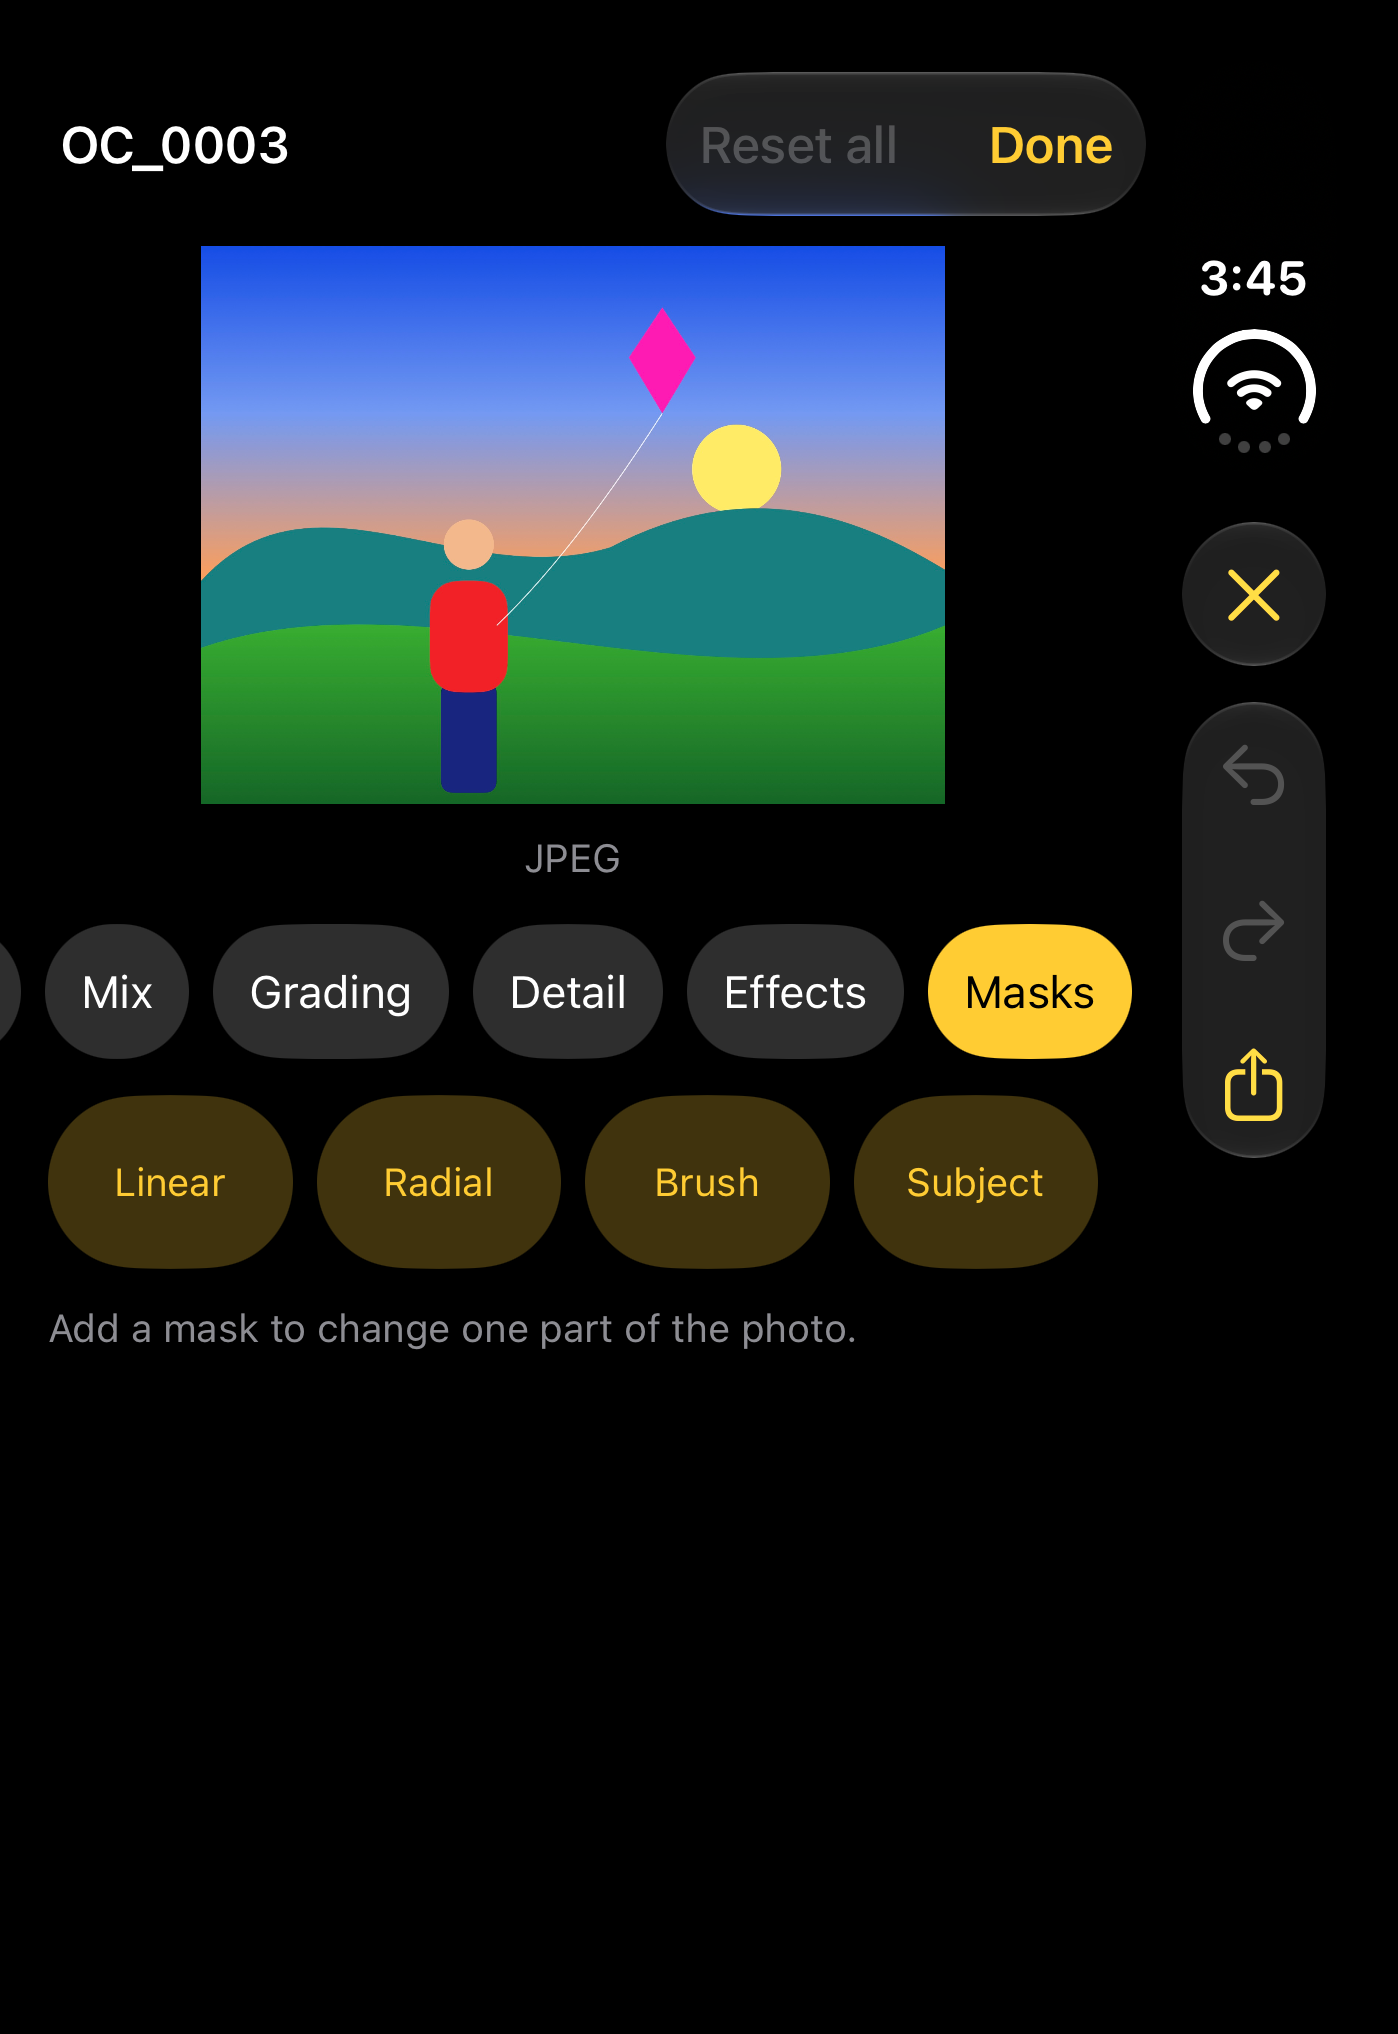
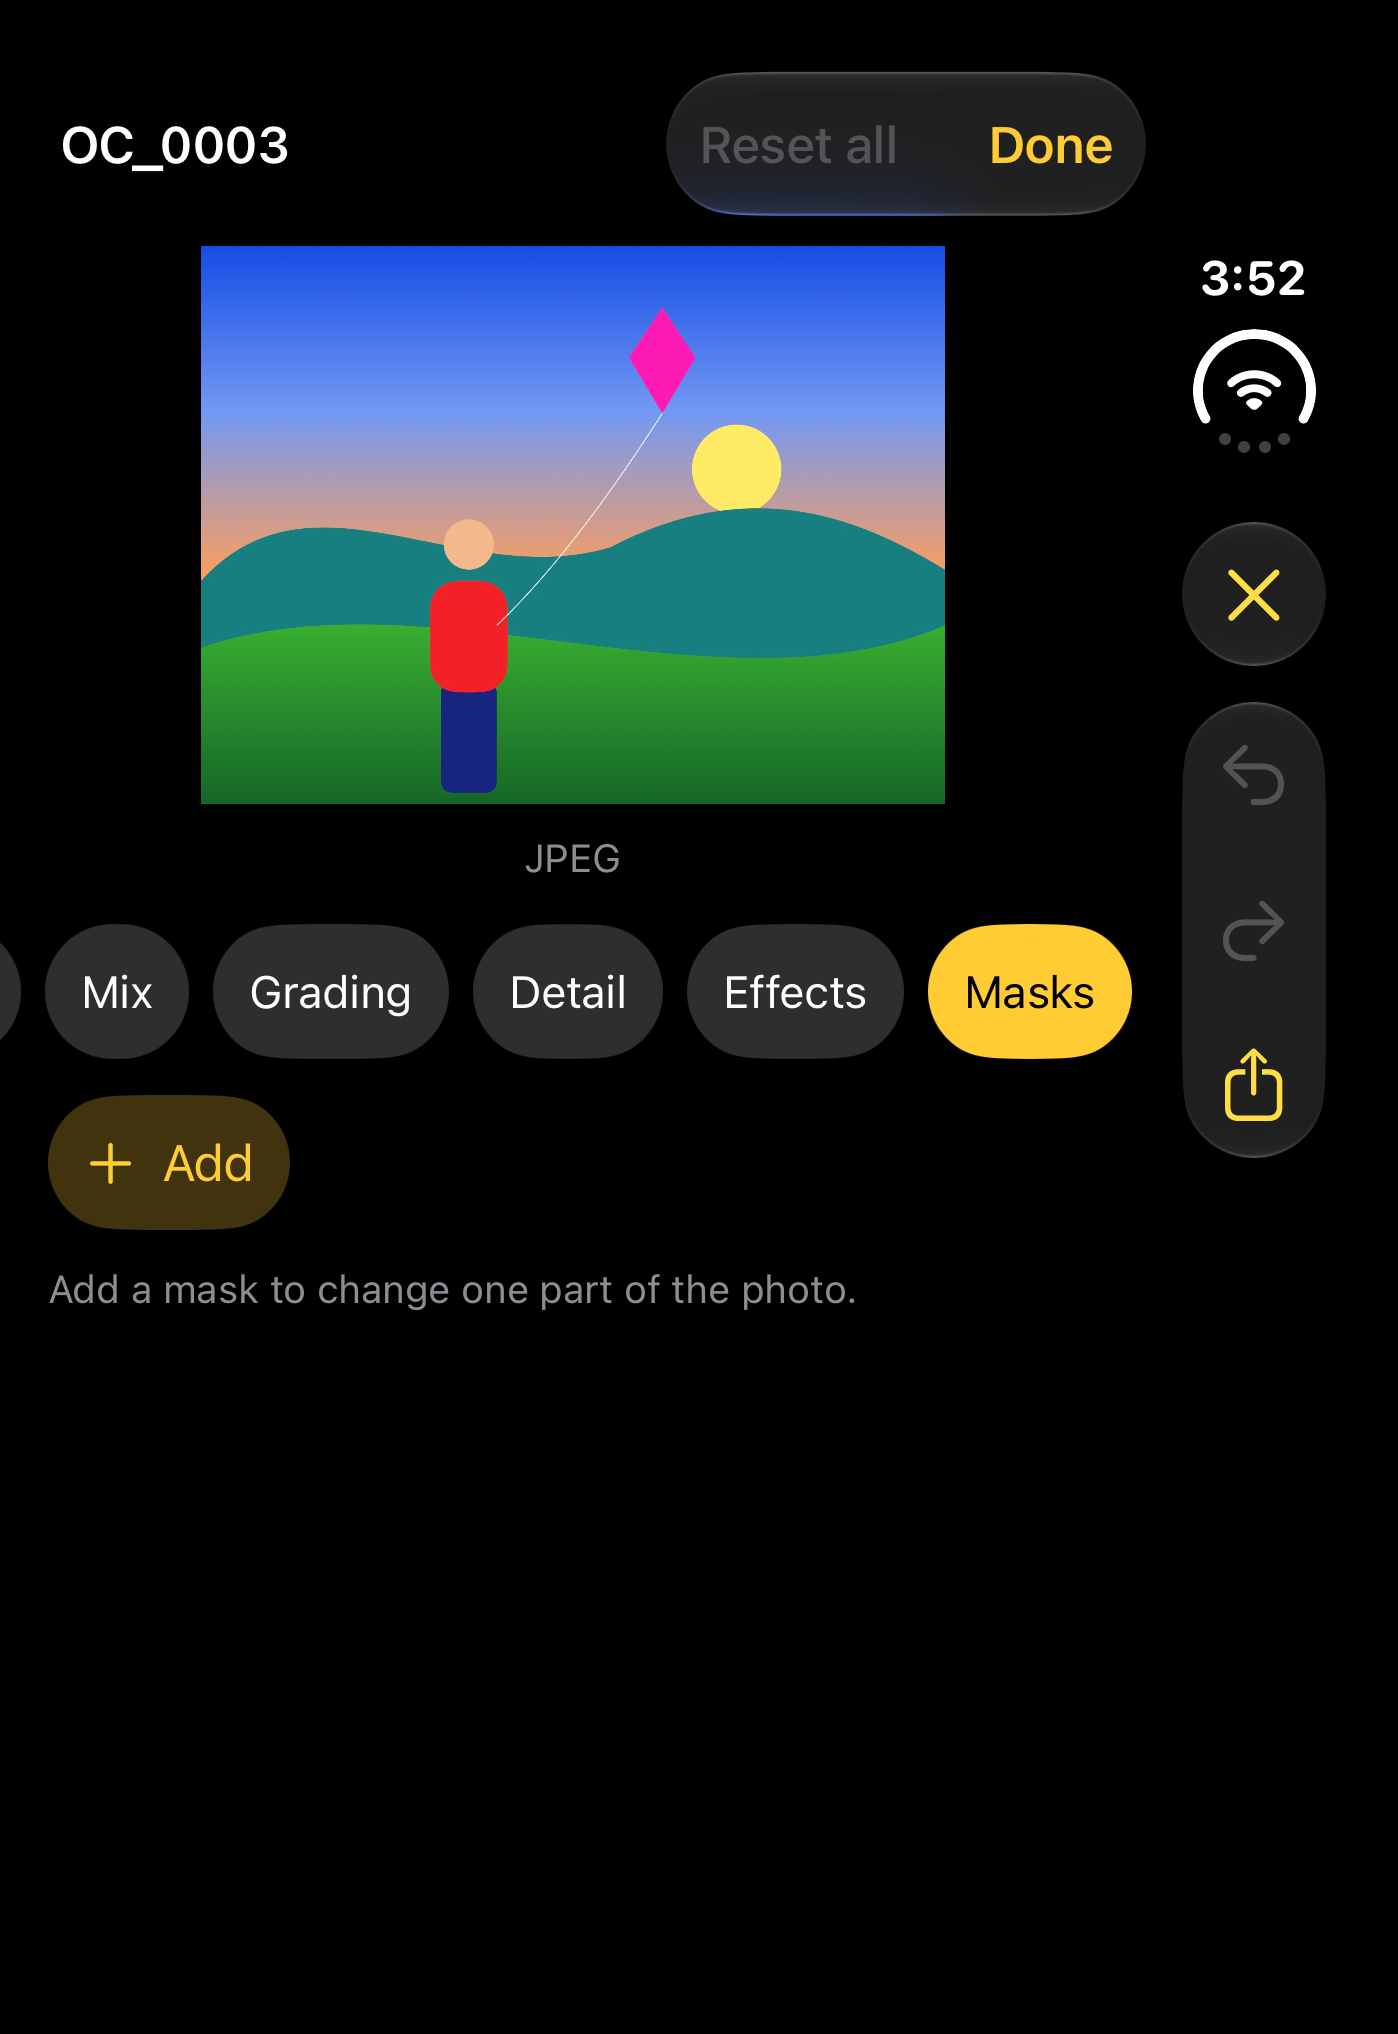
fix: fit the Masks panel's controls into one row and mark Delete as destructive

Changed region(s): [[0.0308, 0.5265, 0.7997, 0.6814], [0.892, 0.1239, 0.9535, 0.1549]]

diff --git a/OpenCam/UI/Editor/MasksPanel.swift b/OpenCam/UI/Editor/MasksPanel.swift
@@ -1,6 +1,6 @@
 import SwiftUI
 
-/// The Masks group: four buttons that add a mask, then the chosen mask's row, Invert and Delete, then its seven sliders.
+/// The Masks group: one row with the Add menu and the masks, then Invert and Delete, then its seven sliders.
 struct MasksPanel: View {
     @Bindable var model: EditorModel
 
@@ -9,14 +9,13 @@ struct MasksPanel: View {
     var body: some View {
         ScrollView {
             VStack(spacing: Self.rowGap) {
-                addButtons
+                topRow
                 if model.masks.isEmpty {
                     Text("Add a mask to change one part of the photo.")
                         .font(.footnote)
                         .foregroundStyle(.secondary)
                         .frame(maxWidth: .infinity, alignment: .leading)
                 } else {
-                    maskRow
                     actions
                     ForEach(LocalMask.keys, id: \.self) { key in
                         AdjustmentSlider(key: key, value: sliderBinding(key)) { model.updateSelectedMask { $0.adjustments[key] = 0 } }
@@ -30,22 +29,31 @@ struct MasksPanel: View {
         .scrollBounceBehavior(.basedOnSize)
     }
 
-    private var addButtons: some View {
+    /// The Add menu and, once a mask exists, the masks by position in the rest of the row.
+    private var topRow: some View {
         HStack(spacing: Theme.Space.s) {
-            ForEach(MaskKind.allCases, id: \.self) { kind in
-                Button { model.addMask(kind) } label: {
-                    Text(kind.title)
-                        .font(.footnote)
-                        .lineLimit(1)
-                        .minimumScaleFactor(0.6)
-                        .frame(maxWidth: .infinity, minHeight: Theme.Size.minTarget)
-                }
-                .buttonStyle(.bordered)
-            }
+            addMenu
+            if !model.masks.isEmpty { maskRow }
+            else { Spacer(minLength: 0) }
         }
-        .accessibilityElement(children: .contain)
-        .accessibilityLabel("Add a mask")
     }
+
+    private var addMenu: some View {
+        Menu {
+            ForEach(MaskKind.allCases, id: \.self) { kind in
+                Button(kind.title) { model.addMask(kind) }
+            }
+        } label: {
+            Label("Add", systemImage: "plus")
+                .frame(minHeight: Theme.Size.minTarget - Self.borderedInset)
+        }
+        .buttonStyle(.bordered)
+        .fixedSize()
+        .accessibilityLabel("Add mask")
+    }
+
+    /// The bordered styles add about 6.5 pt above and below the label (measured, as in `ScrollingPicker`).
+    private static let borderedInset: CGFloat = 13
 
     /// The masks by position, bound through the selected id (the picker's selection is not optional).
     private var maskRow: some View {
@@ -54,8 +62,6 @@ struct MasksPanel: View {
             set: { model.selectedMaskID = $0 }
         )
         return ScrollingPicker(title: "Mask", selection: selection, options: model.masks.map(\.id), label: title(of:))
-            // The picker pads its own sides; the panel's padding already does.
-            .padding(.horizontal, -Theme.Space.l)
     }
 
     private func title(of id: UUID) -> String {
@@ -64,19 +70,25 @@ struct MasksPanel: View {
     }
 
     private var actions: some View {
-        HStack(spacing: Theme.Space.s) {
-            let isInverted = model.selectedMask?.isInverted ?? false
+        let isInverted = model.selectedMask?.isInverted ?? false
+        return HStack(spacing: Theme.Space.s) {
+            // Filled in the accent with dark text when on, the faint neutral fill when off, as the picker's buttons are.
             Button { model.updateSelectedMask { $0.isInverted.toggle() } } label: {
-                Text("Invert").frame(maxWidth: .infinity, minHeight: Theme.Size.minTarget)
+                Text("Invert")
+                    .font(.subheadline)
+                    .foregroundStyle(isInverted ? Color.black : Color.primary)
+                    .frame(maxWidth: .infinity, minHeight: Theme.Size.minTarget - Self.borderedInset)
             }
-            .buttonStyle(.bordered)
-            .tint(isInverted ? Theme.accent : Color.primary)
-            .fontWeight(isInverted ? .semibold : .regular)
+            .buttonStyle(.borderedProminent)
+            .tint(isInverted ? Theme.accent : Color.primary.opacity(0.18))
             .accessibilityAddTraits(isInverted ? .isSelected : [])
             Button(role: .destructive) { model.deleteSelectedMask() } label: {
-                Text("Delete").frame(maxWidth: .infinity, minHeight: Theme.Size.minTarget)
+                Text("Delete")
+                    .font(.subheadline)
+                    .frame(maxWidth: .infinity, minHeight: Theme.Size.minTarget - Self.borderedInset)
             }
             .buttonStyle(.bordered)
+            .tint(.red)
         }
         // The first slider's reset target reaches up over the gap above its name row; the padding keeps it off the buttons.
         .padding(.bottom, AdjustmentSlider.reachUp - Self.rowGap)
